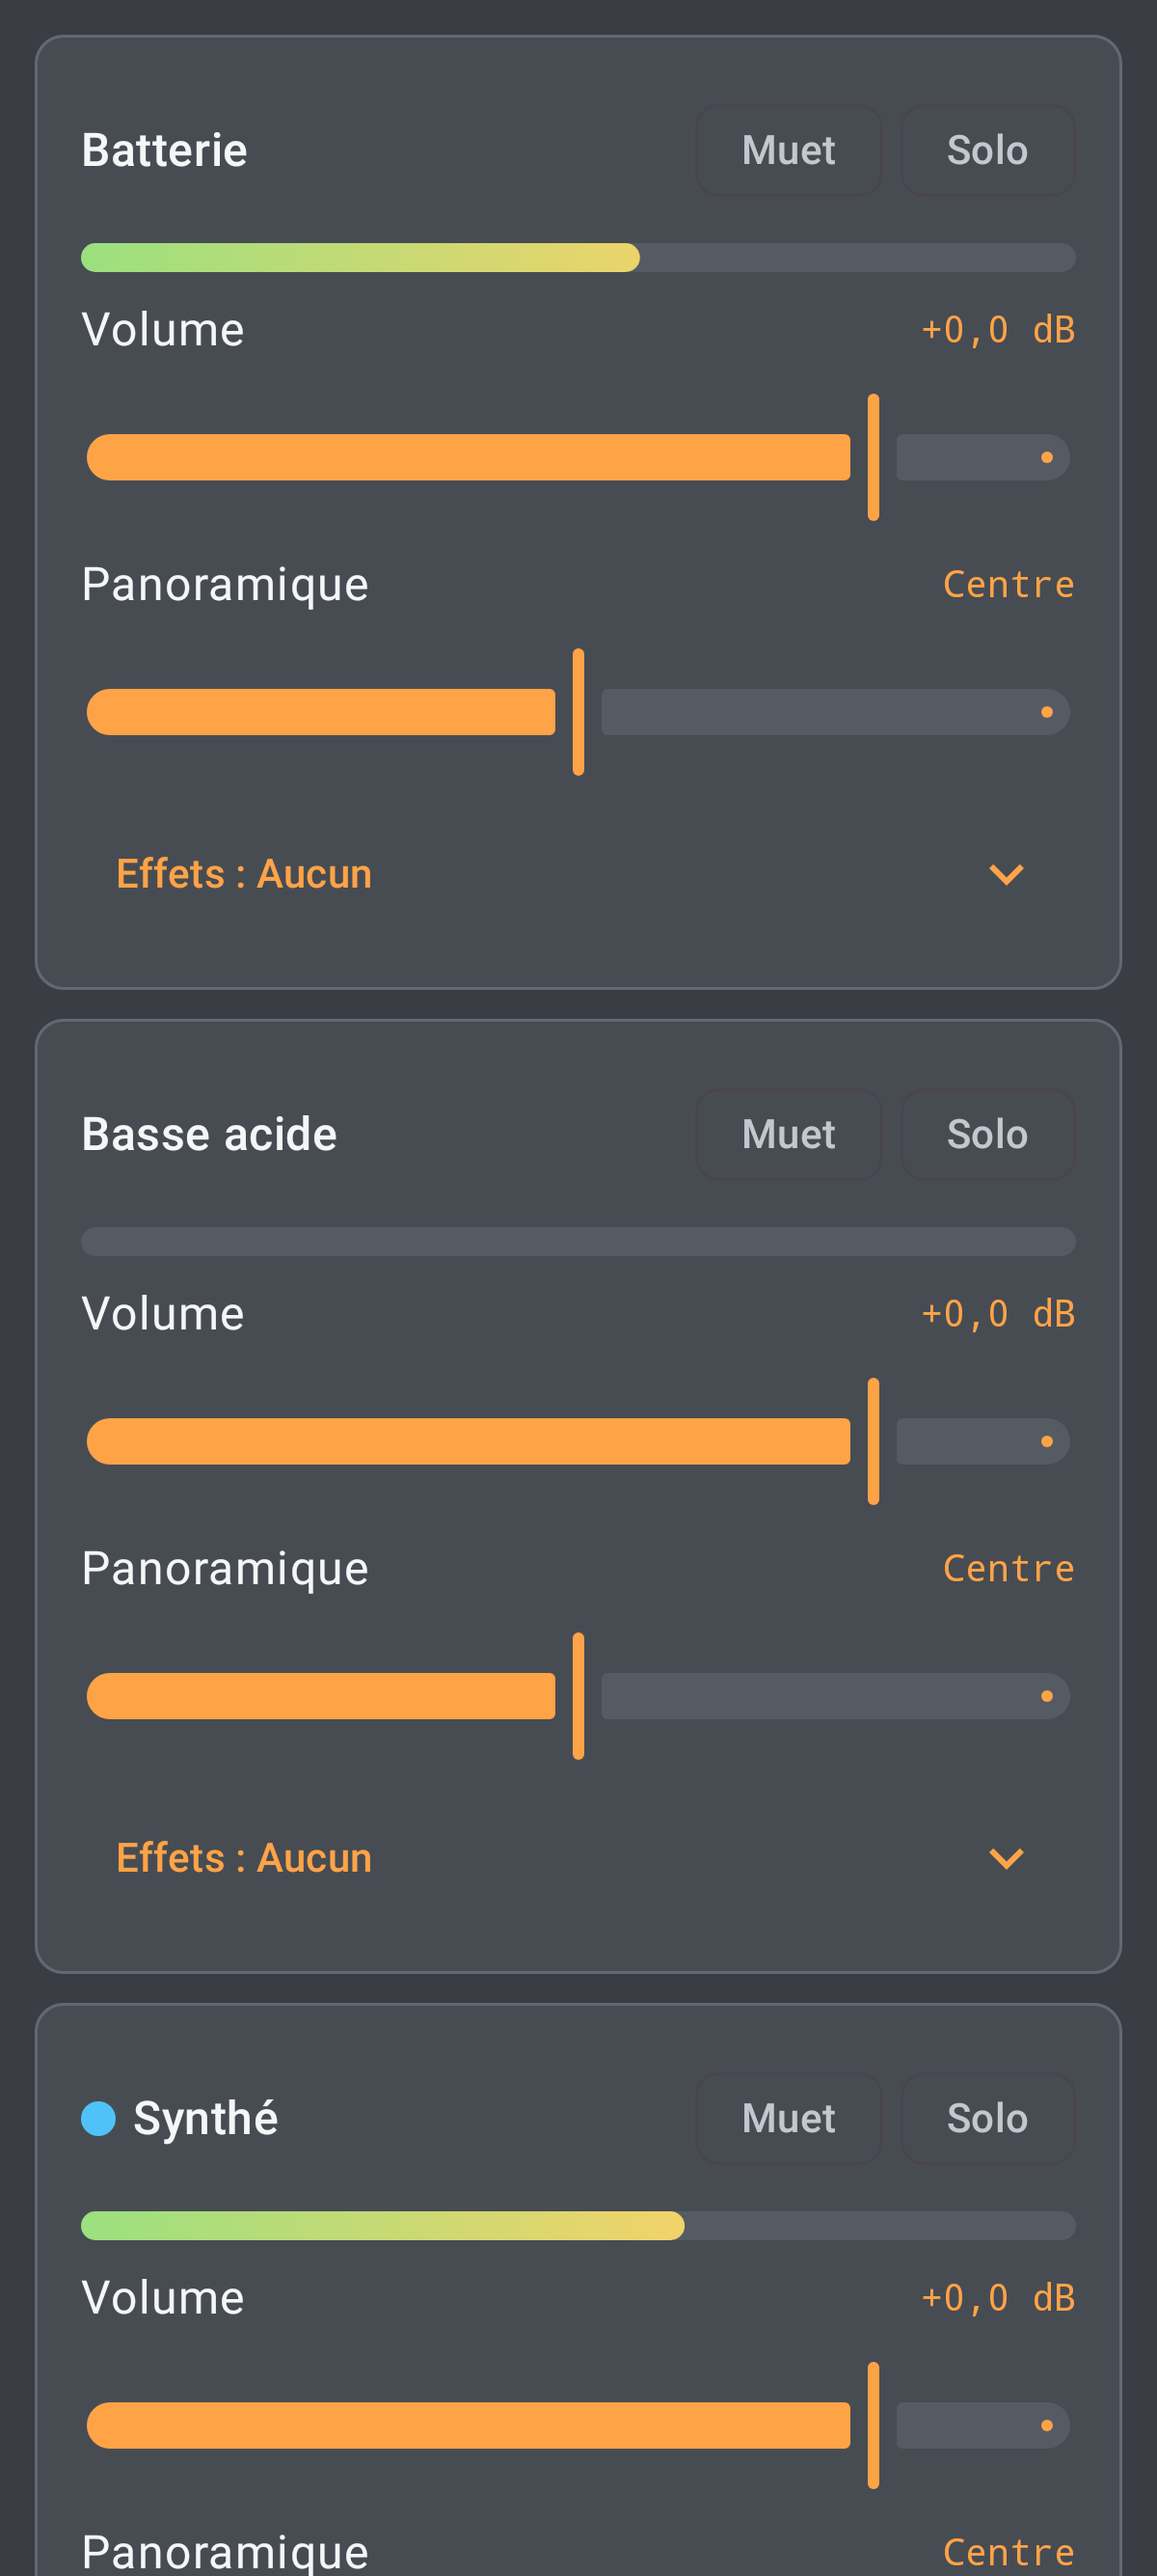
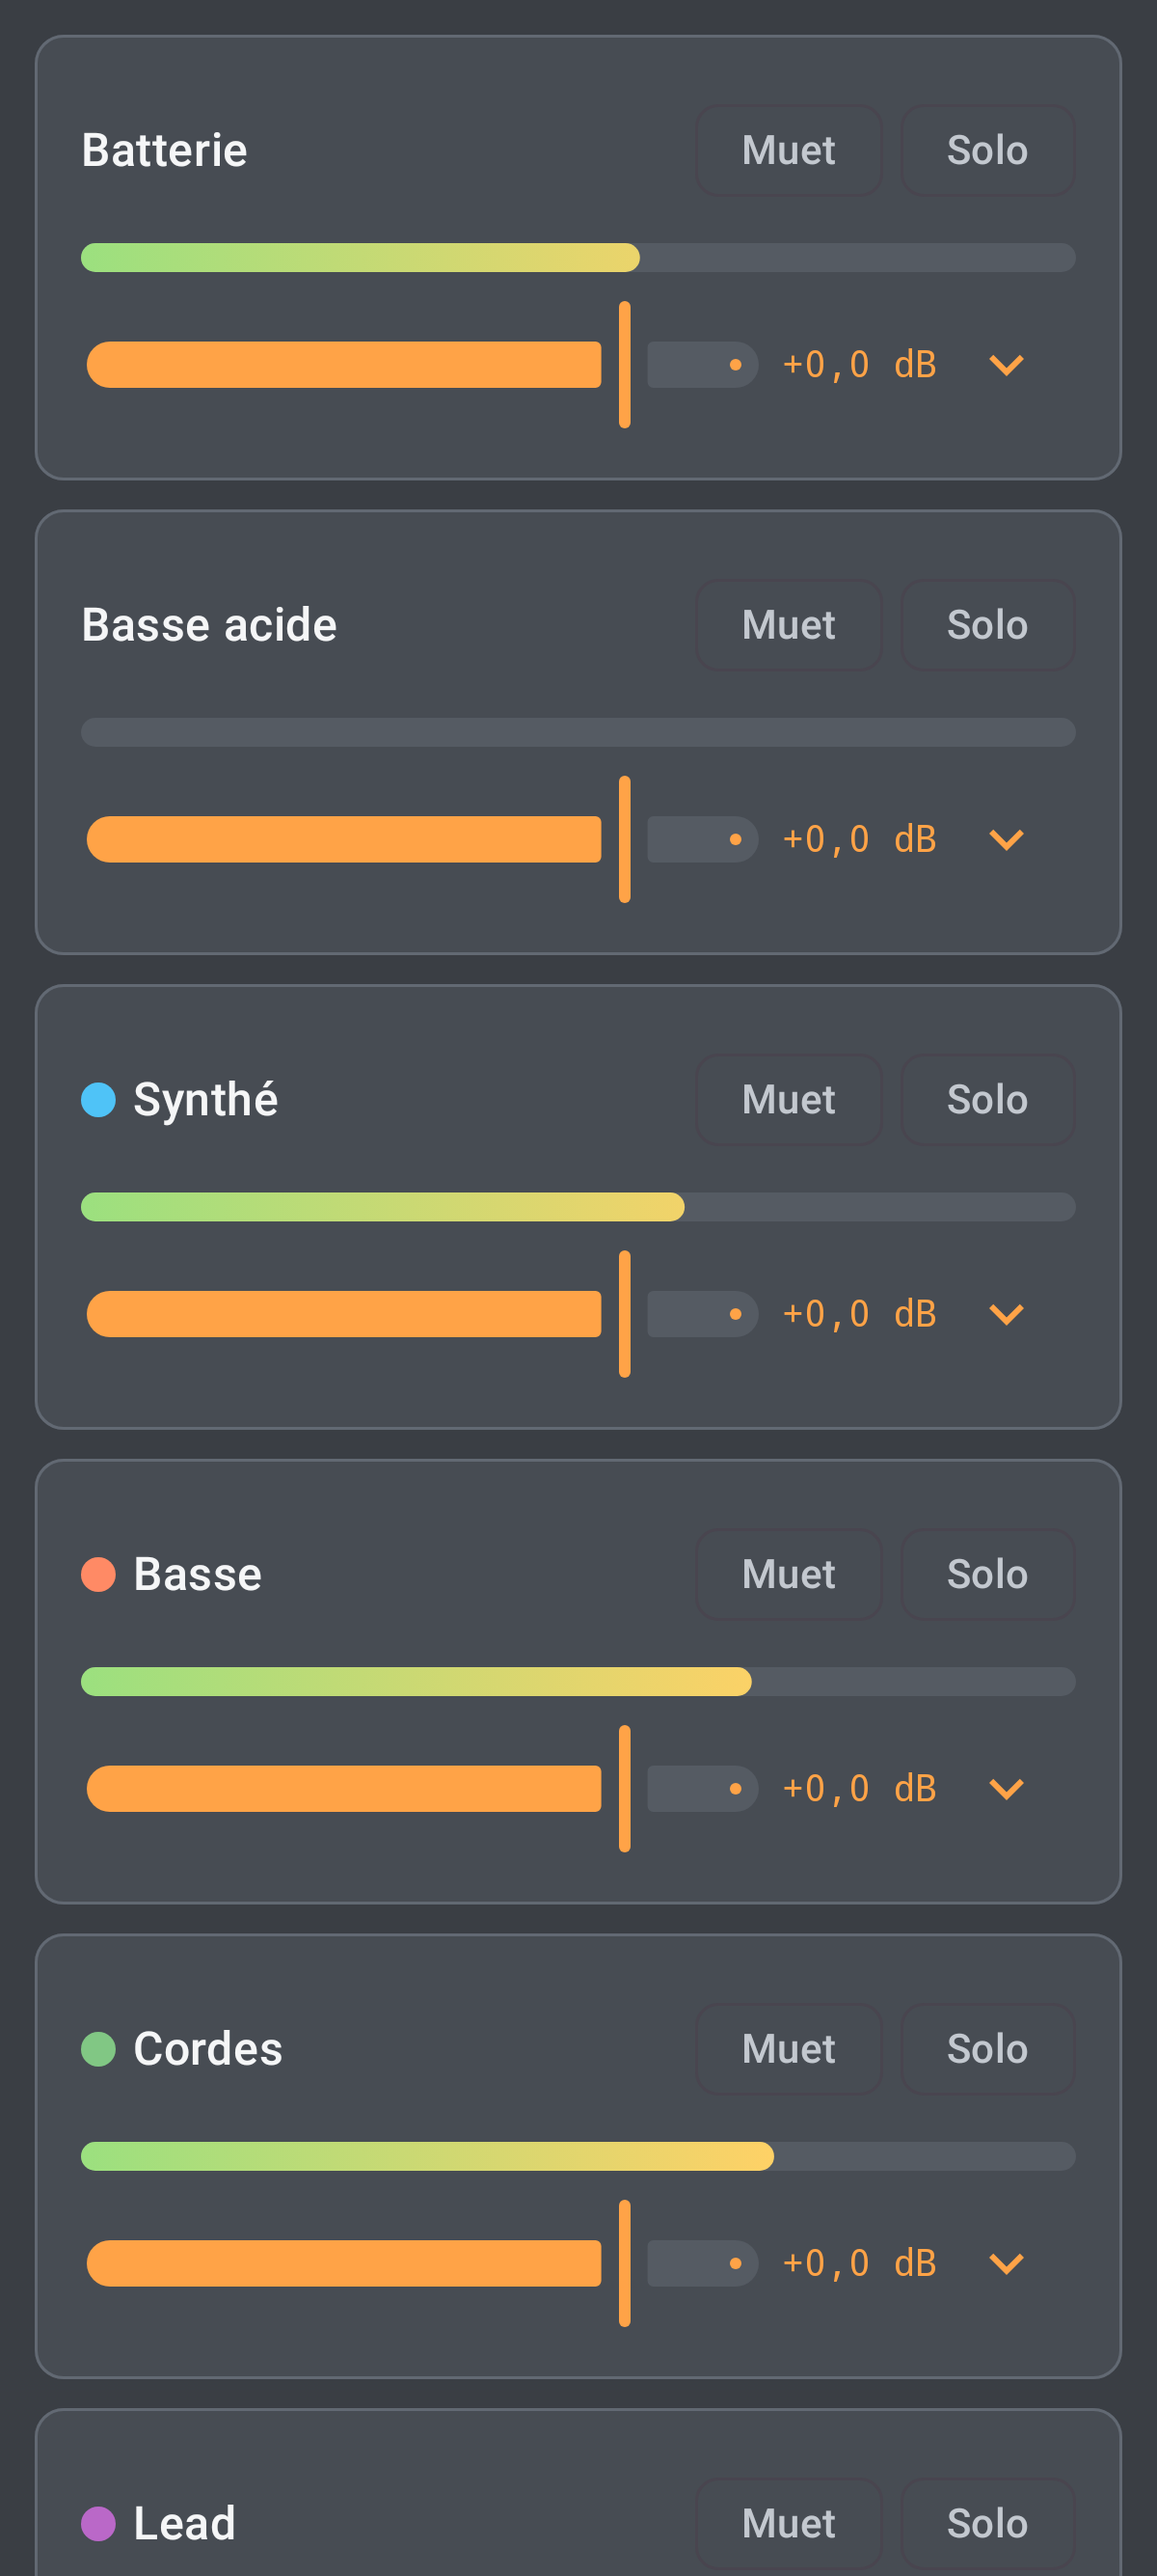
Mixer: compact strips when there are track strips (volume on one line, pan and effects behind a toggle)
Claude-Session: https://claude.ai/code/session_01NqonxZBBysqqWBbnsC2VTP

diff --git a/app/src/main/java/com/pocketstudio/app/mixer/MixerScreen.kt b/app/src/main/java/com/pocketstudio/app/mixer/MixerScreen.kt
@@ -108,8 +108,10 @@ fun MixerScreen(
         modifier = modifier.fillMaxSize().verticalScroll(rememberScrollState()).padding(12.dp).testTag("mixer"),
         verticalArrangement = Arrangement.spacedBy(10.dp),
     ) {
+        // Many tracks: each strip shows its volume on one line; ▾ opens pan and effects.
+        val compact = strips.size > BASIC_STRIPS.size
         strips.forEach { st ->
-            Strip(st, channels.getOrElse(st.ch) { Channel() }, meters.getOrElse(st.ch) { 0f }, actions)
+            Strip(st, channels.getOrElse(st.ch) { Channel() }, meters.getOrElse(st.ch) { 0f }, actions, compact)
         }
         NeonCard(accent = Neon.Cyan) {
             SectionLabel("Sortie générale")
@@ -132,9 +134,10 @@ fun MixerScreen(
 }
 
 @Composable
-private fun Strip(info: StripInfo, c: Channel, meter: Float, actions: MixerActions) {
+private fun Strip(info: StripInfo, c: Channel, meter: Float, actions: MixerActions, compact: Boolean = false) {
     val name = info.name
     val index = info.ch
+    var expanded by rememberSaveable(index) { mutableStateOf(false) }
     val chipColors = FilterChipDefaults.filterChipColors(
         selectedContainerColor = Neon.Cyan.copy(alpha = 0.25f),
         selectedLabelColor = Neon.Cyan,
@@ -155,11 +158,28 @@ private fun Strip(info: StripInfo, c: Channel, meter: Float, actions: MixerActio
                 modifier = Modifier.testTag("solo_$index"))
         }
         LevelMeter(meter / 0.89f)
-        Row(Modifier.fillMaxWidth(), verticalAlignment = Alignment.CenterVertically) {
-            Text("Volume", Modifier.weight(1f))
-            Text(faderDb(c.volume), style = MonoStyle, color = Neon.Cyan)
+        if (compact) {
+            Row(Modifier.fillMaxWidth(), verticalAlignment = Alignment.CenterVertically) {
+                Slider(value = c.volume, onValueChange = { actions.setVolume(index, it) }, modifier = Modifier.weight(1f).testTag("volume_$index"))
+                Text(faderDb(c.volume), style = MonoStyle, color = Neon.Cyan, modifier = Modifier.padding(start = 6.dp))
+                androidx.compose.material3.IconButton(onClick = { expanded = !expanded }, modifier = Modifier.testTag("strip_more_$index")) {
+                    Icon(if (expanded) Icons.Filled.ExpandLess else Icons.Filled.ExpandMore,
+                        contentDescription = if (expanded) "Moins de réglages" else "Panoramique et effets", tint = Neon.Cyan)
+                }
+            }
+            if (!expanded) {
+                if (c.pan != 0f || c.inserts.any { it.type != 0 } || c.sends.any { it > 0f }) {
+                    Text(effectsSummary(c.inserts, c.sends), style = MaterialTheme.typography.bodySmall, color = Neon.TextSecondary)
+                }
+                return@NeonCard
+            }
+        } else {
+            Row(Modifier.fillMaxWidth(), verticalAlignment = Alignment.CenterVertically) {
+                Text("Volume", Modifier.weight(1f))
+                Text(faderDb(c.volume), style = MonoStyle, color = Neon.Cyan)
+            }
+            Slider(value = c.volume, onValueChange = { actions.setVolume(index, it) }, modifier = Modifier.testTag("volume_$index"))
         }
-        Slider(value = c.volume, onValueChange = { actions.setVolume(index, it) }, modifier = Modifier.testTag("volume_$index"))
         Row(Modifier.fillMaxWidth(), verticalAlignment = Alignment.CenterVertically) {
             Text("Panoramique", Modifier.weight(1f))
             val pan = (c.pan * 100).roundToInt()
